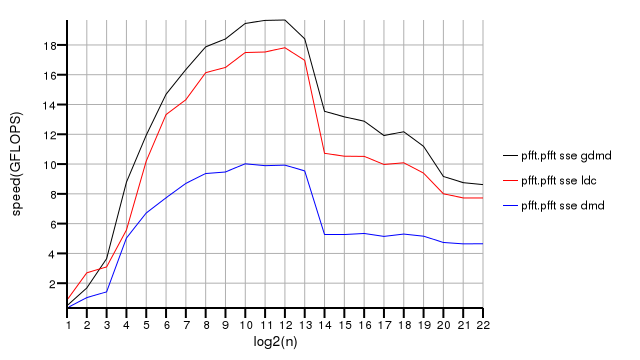
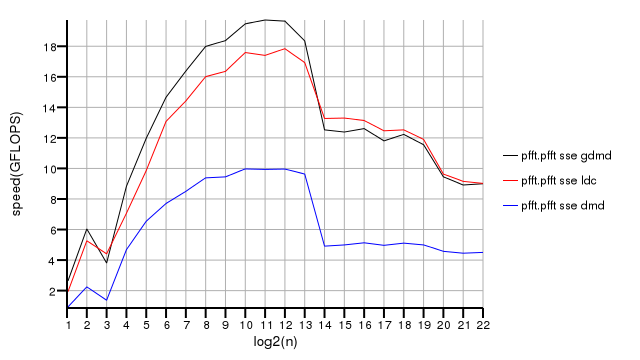
Updated benchmarks.

diff --git a/benchmarks/index.html b/benchmarks/index.html
@@ -25,7 +25,7 @@ compiled with GCC 4.8.0 20120715. All the benchmarks were done
 using the test/test.d file and were run on an Intel Core i5 2500K CPU. The 
 operating system was Debian Wheezy.</p>
 
-<p>The benchmarks on this page are for the <a href="https://github.com/jerro/pfft/tree/ebfc8b8a08a8d36b919b255809b1ec80e7062016">ebfc8b8a</a> revision of pfft. For 0.1 release benchmarks go <a href="../benchmarks-0.1">here</a>.</p>
+<p>The benchmarks on this page are for 0.1.1 release of pfft.</p>
 
 <h3>Comparison with FFTW</h3>
 
@@ -73,8 +73,8 @@ three graphs uses scalar floating point math.</p>
 <h3>Comparison of different D compilers</h3>
 
 <p>The chart below compares the speed of pfft when compiled with DMD, 
-LDC and GDC. The version of DMD was 2.59. The LDC used was from the llvm-3.1 
-branch and based on the 2.59 DMD frontend.</p>
+LDC and GDC. The version of DMD was 2.59. The LDC used was revision
+<a href="https://github.com/ldc-developers/ldc/tree/56233a373ce3d57758b1d4f64949b5b7c1b1d309">56233a373ce</a>.</p>
 
 <h4>Complex single precision transform</h4>
 

diff --git a/benchmarks/src/index.md b/benchmarks/src/index.md
@@ -20,7 +20,7 @@ compiled with GCC 4.8.0 20120715. All the benchmarks were done
 using the test/test.d file and were run on an Intel Core i5 2500K CPU. The 
 operating system was Debian Wheezy.
 
-The benchmarks on this page are for the [ebfc8b8a](https://github.com/jerro/pfft/tree/ebfc8b8a08a8d36b919b255809b1ec80e7062016) revision of pfft. For 0.1 release benchmarks go [here](../benchmarks-0.1).
+The benchmarks on this page are for 0.1.1 release of pfft.
 
 ### Comparison with FFTW
 
@@ -72,8 +72,8 @@ three graphs uses scalar floating point math.
 ### Comparison of different D compilers
 
 The chart below compares the speed of pfft when compiled with DMD, 
-LDC and GDC. The version of DMD was 2.59. The LDC used was from the llvm-3.1 
-branch and based on the 2.59 DMD frontend.
+LDC and GDC. The version of DMD was 2.59. The LDC used was revision
+[56233a373ce](https://github.com/ldc-developers/ldc/tree/56233a373ce3d57758b1d4f64949b5b7c1b1d309).
 
 #### Complex single precision transform
 
